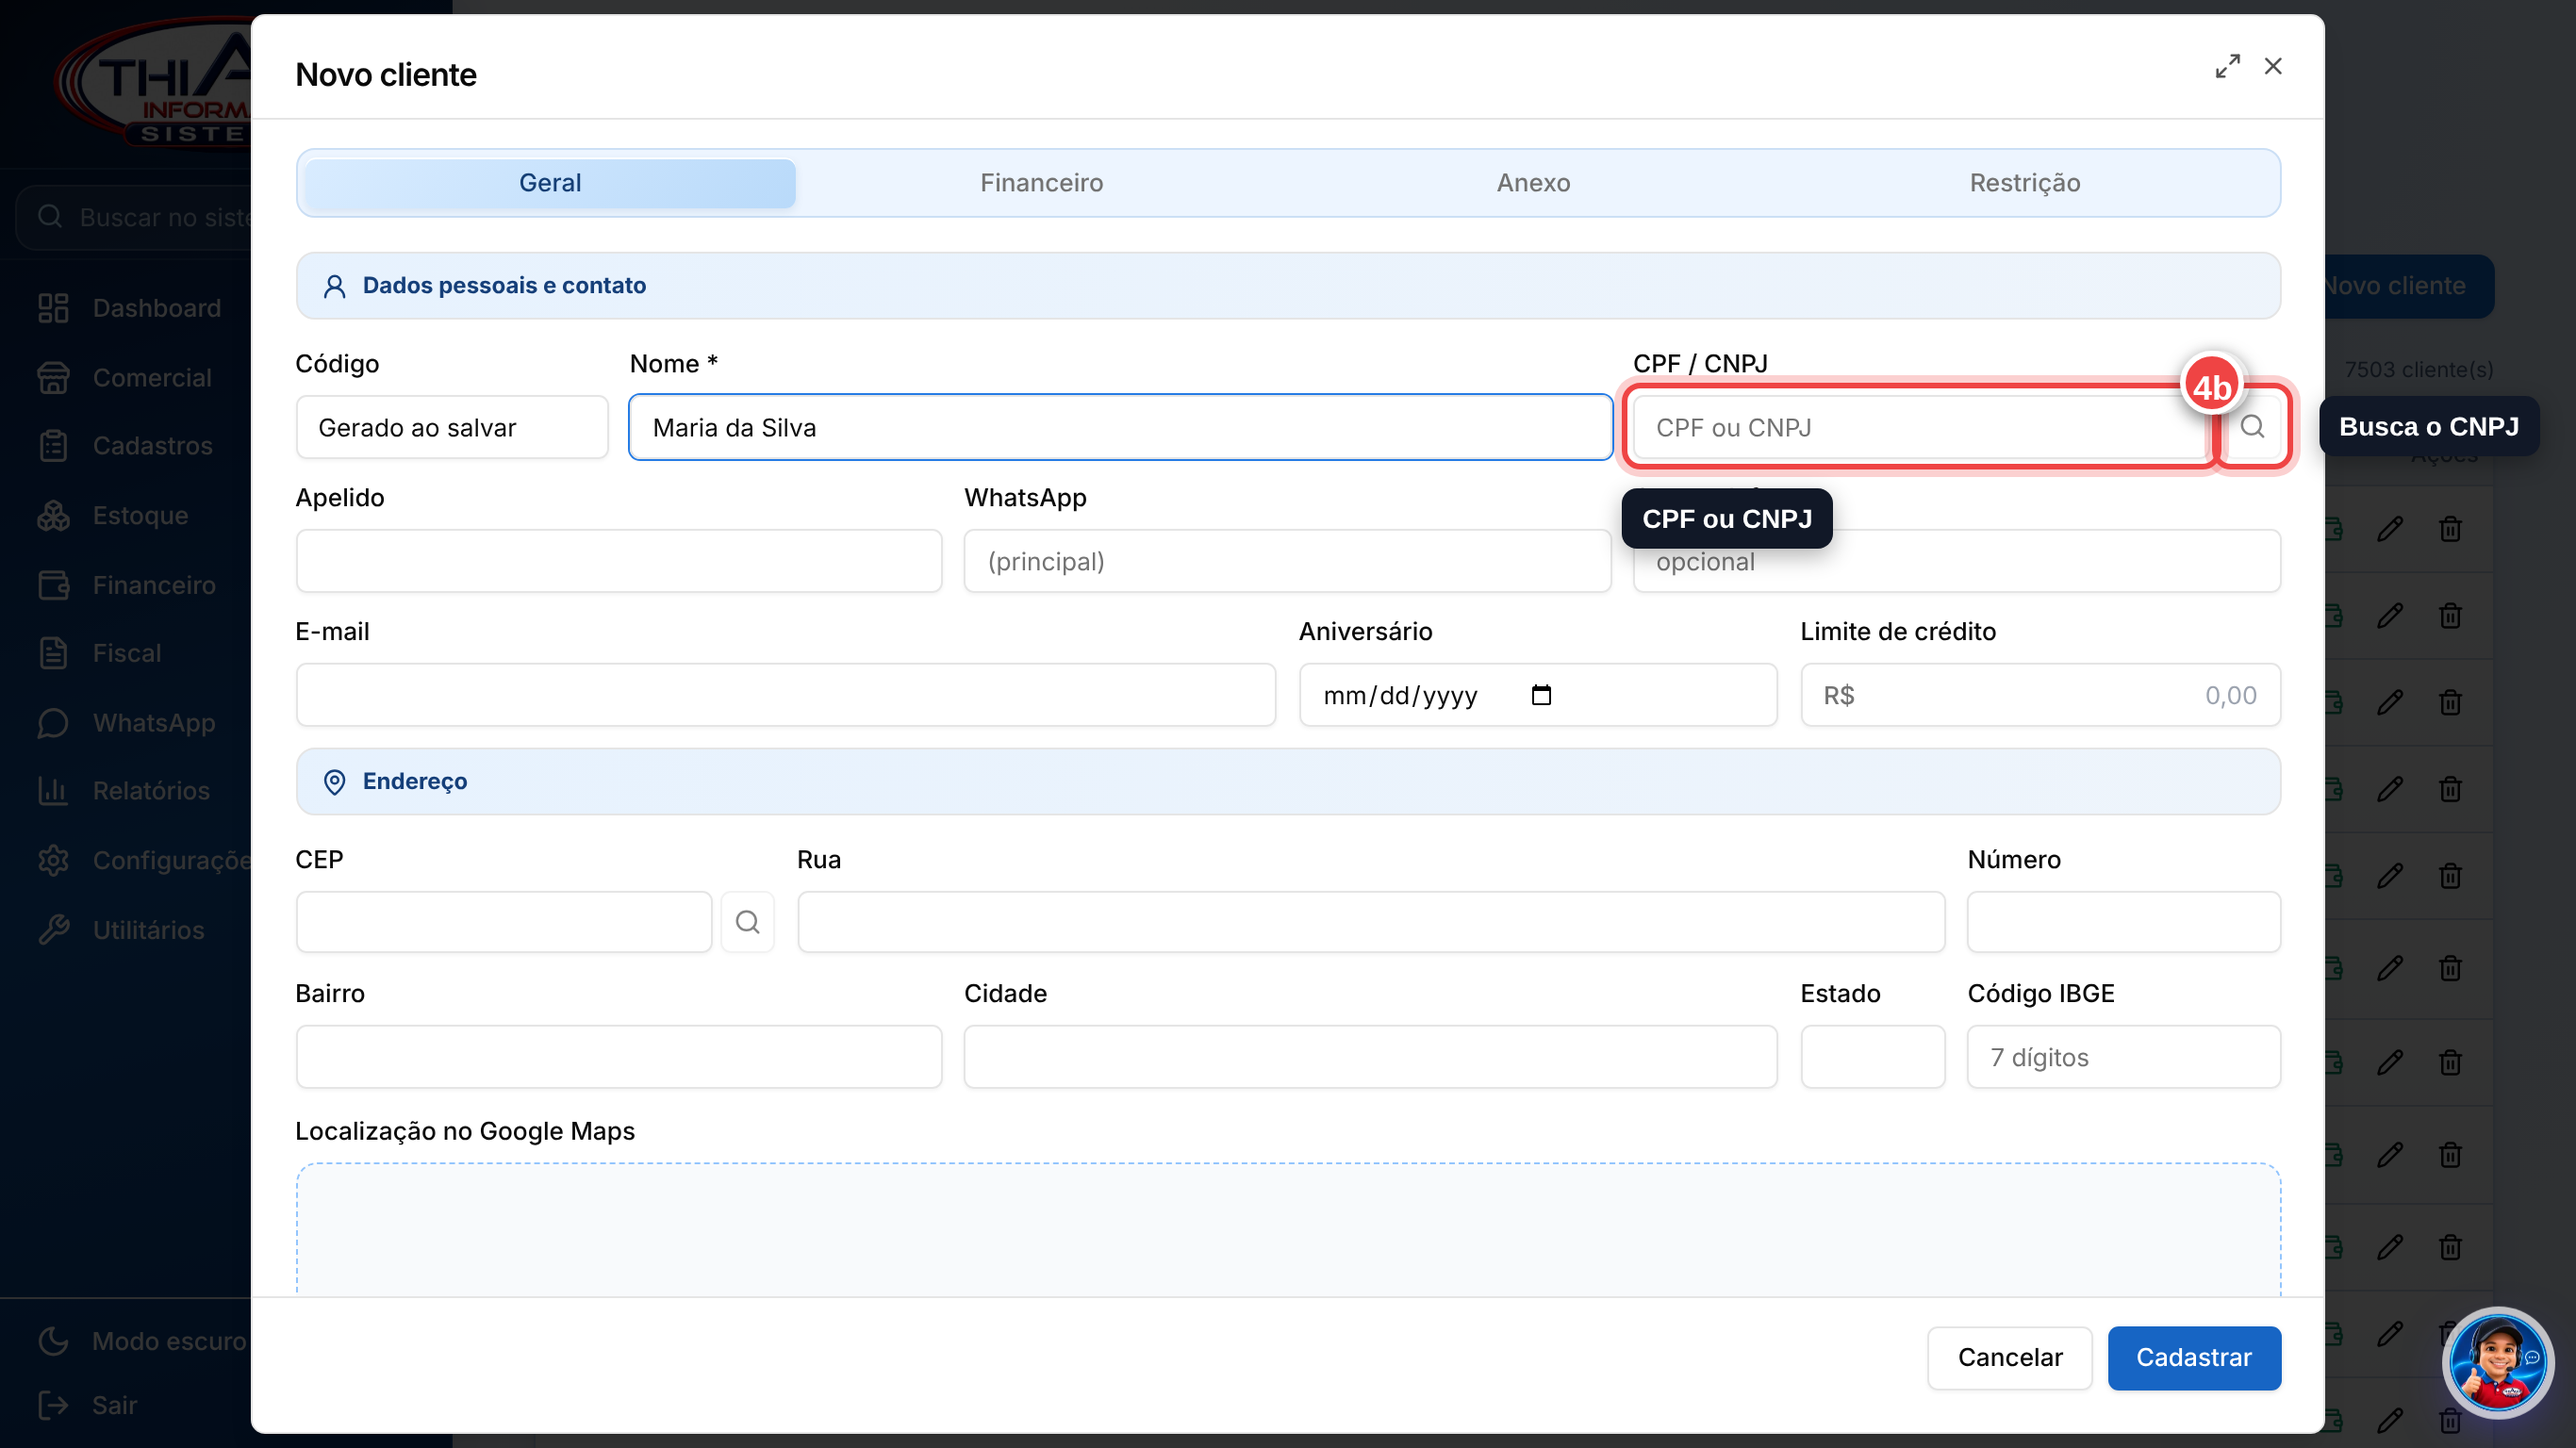
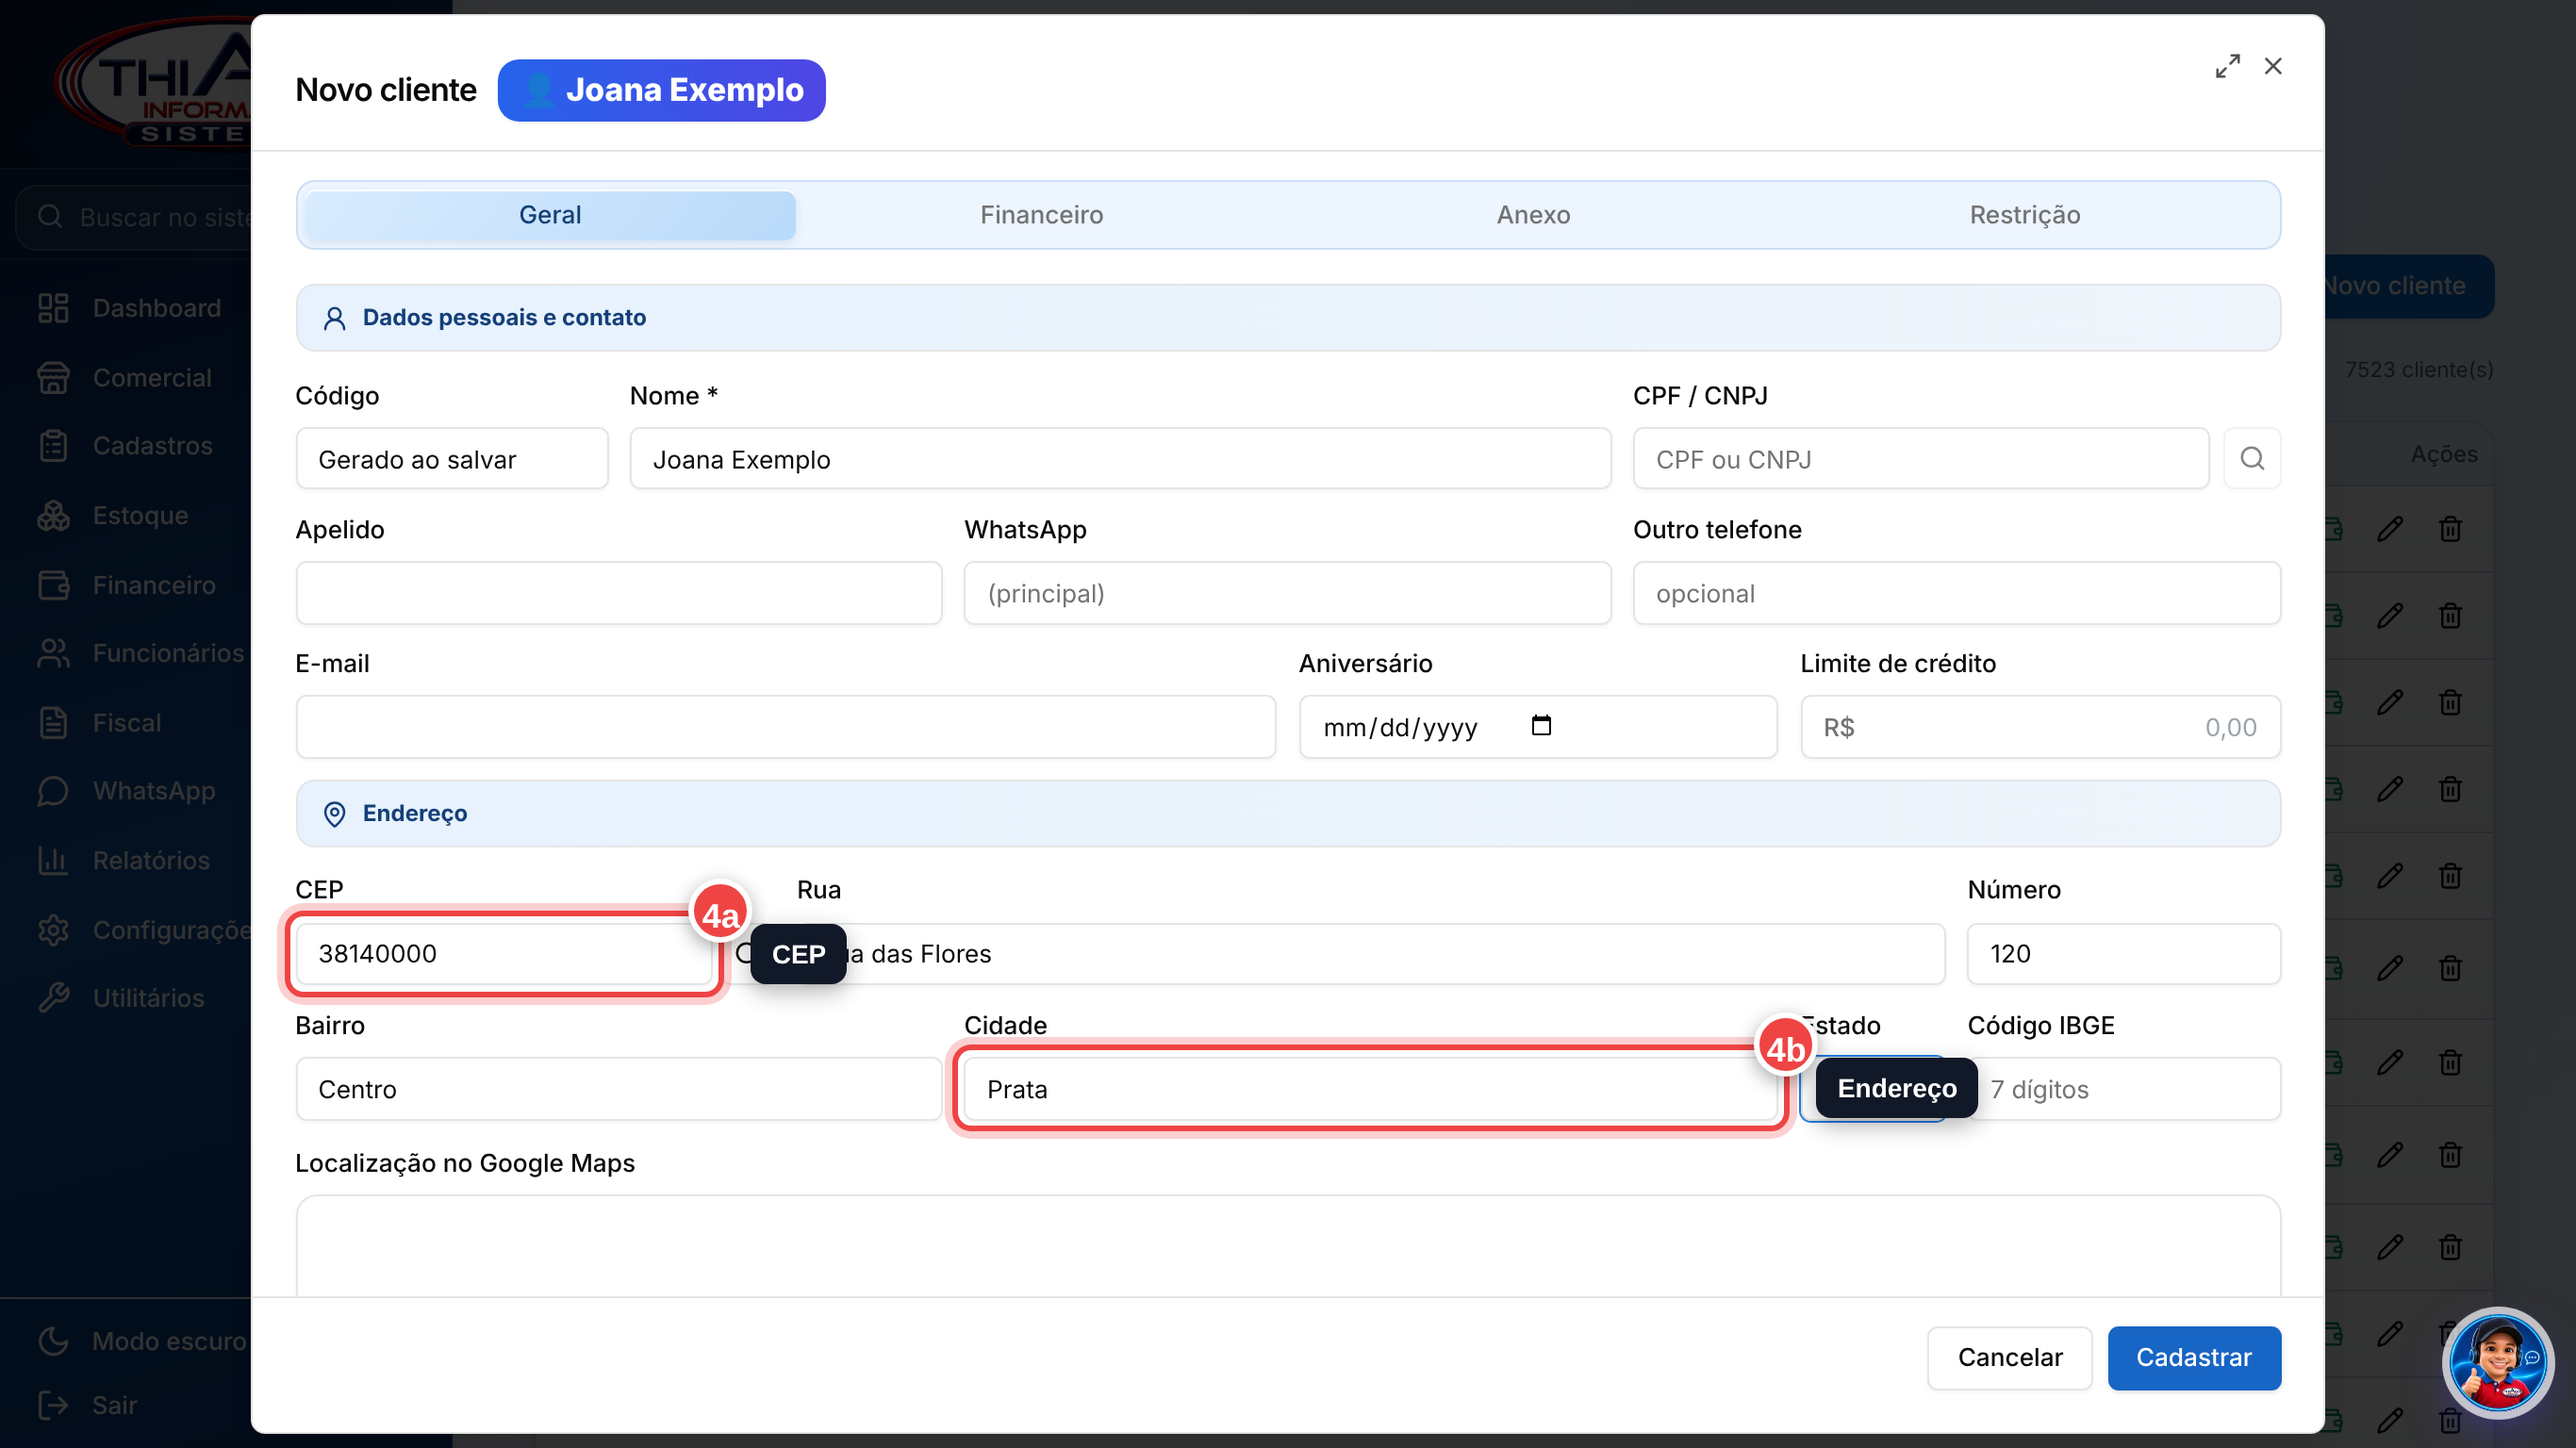
Cadastrar cliente feito de verdade (Joana Exemplo, endereço digitado, aparece na lista)
Claude-Session: https://claude.ai/code/session_01RyHuxN9gx9DVU1E5ti7Cs8

diff --git a/tutoriais/roteiros/20-cadastrar-cliente.js b/tutoriais/roteiros/20-cadastrar-cliente.js
@@ -1,55 +1,68 @@
+// Cadastro de cliente feito DE VERDADE na Demonstração (pedido do dono, 21/11/2026): cliente fictícia
+// "Joana Exemplo", sem telefone (nada vai para WhatsApp de ninguém), endereço pelo CEP, salva e aparece na lista.
 module.exports = {
   id: 'cadastrar-cliente',
   ordem: 20,
   grupo: 'Cadastros',
   titulo: 'Cadastrar um cliente',
+  gravaDados: true,
+  aceitarConfirmacao: true, // "já existe cliente com esse nome": é a mesma cliente fictícia de outras gravações
+  manter: ['Joana Exemplo', '38140000', '38140-000', 'Rua das Flores', 'Centro', 'Prata'],
   assunto: {"chave": ["cliente", "clientes"], "acoes": ["cadastrar", "cadastro", "cadastra", "novo", "nova", "incluir", "adicionar", "criar", "colocar", "registrar"]}, // como o Thiaguinho acha o vídeo pela pergunta
   resumo: 'Cadastre clientes com nome, CPF/CNPJ, WhatsApp e endereço.',
+  fala: 'Oi! Aqui é o Thiago, da Thiago Informática. Neste vídeo eu vou cadastrar um cliente de verdade, do começo ao fim. Bora lá!',
   passos: [
     {
       ir: '/cadastros/clientes',
+      espera: 6000,
       titulo: 'Abra a tela de Clientes',
-      texto: 'No menu, clique em Cadastros › Pessoas › Clientes. Aqui ficam todos os seus clientes.',
-      marcar: [{ alvo: { papel: 'heading', nome: 'Clientes', exato: true } }],
+      texto: 'No menu, clica em Cadastros, Pessoas, Clientes. Aqui ficam todos os seus clientes. Pra cadastrar um novo, é no botão Novo cliente.',
+      marcar: [{ alvo: { papel: 'button', nome: 'Novo cliente' }, legenda: 'Novo cliente' }],
     },
     {
-      titulo: 'Clique em "Novo cliente"',
-      texto: 'Clique no botão "Novo cliente", no alto da tela.',
-      marcar: [{ alvo: { papel: 'button', nome: 'Novo cliente' } }],
-      depois: [{ tipo: 'clicar', alvo: { papel: 'button', nome: 'Novo cliente' }, espera: 1500 }],
+      antes: [
+        { tipo: 'clicar', alvo: { papel: 'button', nome: 'Novo cliente' }, seguro: true, espera: 1800 },
+        { tipo: 'preencher', alvo: { campo: 'Nome', dentro: 'dialog' }, valor: 'Joana Exemplo' },
+      ],
+      titulo: 'Digite o nome',
+      texto: 'O único campo obrigatório é o nome. O código é criado sozinho quando você salva.',
+      marcar: [{ alvo: { campo: 'Nome', dentro: 'dialog' }, legenda: 'Nome' }],
     },
     {
-      titulo: 'Digite o nome (obrigatório)',
-      texto: 'O único campo obrigatório é o Nome. O Código é criado sozinho quando você salva.',
-      marcar: [{ alvo: { campo: 'Nome', dentro: 'dialog' } }],
-      depois: [{ tipo: 'preencher', alvo: { campo: 'Nome', dentro: 'dialog' }, valor: 'Maria da Silva' }],
-    },
-    {
-      titulo: 'CPF ou CNPJ',
-      texto: 'Digite o CPF ou CNPJ. Se for CNPJ, clique na lupa ao lado: o sistema busca e preenche os dados da empresa sozinho.',
+      titulo: 'CPF, WhatsApp e e-mail',
+      texto: 'Coloca o CPF ou CNPJ: se for CNPJ, a lupa busca e preenche os dados da empresa sozinha. E o WhatsApp, que é por onde vão os comprovantes, as cobranças e o parabéns no aniversário.',
       marcar: [
         { alvo: { placeholder: 'CPF ou CNPJ', dentro: 'dialog' }, legenda: 'CPF ou CNPJ' },
-        { alvo: { rotulo: 'Buscar CNPJ', dentro: 'dialog' }, legenda: 'Busca o CNPJ' },
-      ],
-    },
-    {
-      titulo: 'WhatsApp e e-mail',
-      texto: 'Preencha o WhatsApp do cliente. Ele é usado para enviar comprovantes, cobranças e mensagens de aniversário.',
-      marcar: [
         { alvo: { placeholder: '(principal)', dentro: 'dialog' }, legenda: 'WhatsApp' },
-        { alvo: { campo: 'E-mail', dentro: 'dialog' }, legenda: 'E-mail' },
       ],
-      dica: 'Preencha também o Aniversário: o sistema avisa quando chegar o dia.',
     },
     {
-      titulo: 'Endereço pelo CEP',
-      texto: 'Digite o CEP e clique no botão de consultar: rua, bairro, cidade e estado são preenchidos sozinhos. Depois complete o número.',
-      marcar: [{ alvo: { titulo: 'Consultar CEP', dentro: 'dialog' } }],
+      antes: [
+        { tipo: 'preencher', alvo: { campo: 'CEP', dentro: 'dialog' }, valor: '38140000' },
+        { tipo: 'preencher', alvo: { campo: 'Rua', dentro: 'dialog' }, valor: 'Rua das Flores' },
+        { tipo: 'preencher', alvo: { campo: 'Número', dentro: 'dialog' }, valor: '120' },
+        { tipo: 'preencher', alvo: { campo: 'Bairro', dentro: 'dialog' }, valor: 'Centro' },
+        { tipo: 'preencher', alvo: { campo: 'Cidade', dentro: 'dialog' }, valor: 'Prata' },
+        { tipo: 'preencher', alvo: { campo: 'Estado', dentro: 'dialog' }, valor: 'MG' },
+      ],
+      titulo: 'Endereço',
+      texto: 'Agora o endereço: o CEP, a rua, o número, o bairro e a cidade. Com o CEP, a lupa do lado já preenche a rua e a cidade sozinha.',
+      marcar: [
+        { alvo: { campo: 'CEP', dentro: 'dialog' }, legenda: 'CEP' },
+        { alvo: { campo: 'Cidade', dentro: 'dialog' }, legenda: 'Endereço' },
+      ],
     },
     {
-      titulo: 'Clique em "Cadastrar"',
-      texto: 'Confira os dados e clique em "Cadastrar". Pronto: o cliente já aparece na lista e pode ser usado nas vendas.',
-      marcar: [{ alvo: { papel: 'button', nome: 'Cadastrar', exato: true, dentro: 'dialog' } }],
+      titulo: 'Clique em Cadastrar',
+      texto: 'Confere e clica em Cadastrar. Pronto, a cliente está salva.',
+      marcar: [{ alvo: { papel: 'button', nome: 'Cadastrar', exato: true, dentro: 'dialog' }, legenda: 'Cadastrar' }],
+      depois: [{ tipo: 'clicar', alvo: { papel: 'button', nome: 'Cadastrar', exato: true, dentro: 'dialog' }, espera: 4000 }],
+    },
+    {
+      antes: [{ tipo: 'preencher', alvo: { placeholder: 'Buscar nome, CPF/CNPJ ou telefone' }, valor: 'Joana Exemplo', espera: 3500 }],
+      titulo: 'A cliente já está na lista',
+      texto: 'E ela já aparece na lista, pronta pra usar nas vendas, nas ordens de serviço e no crediário.',
+      marcar: [{ alvo: { texto: 'Joana Exemplo', exato: true }, legenda: 'Cliente salva' }],
       dica: 'Para alterar depois, clique no lápis (Editar) na linha do cliente.',
     },
   ],
